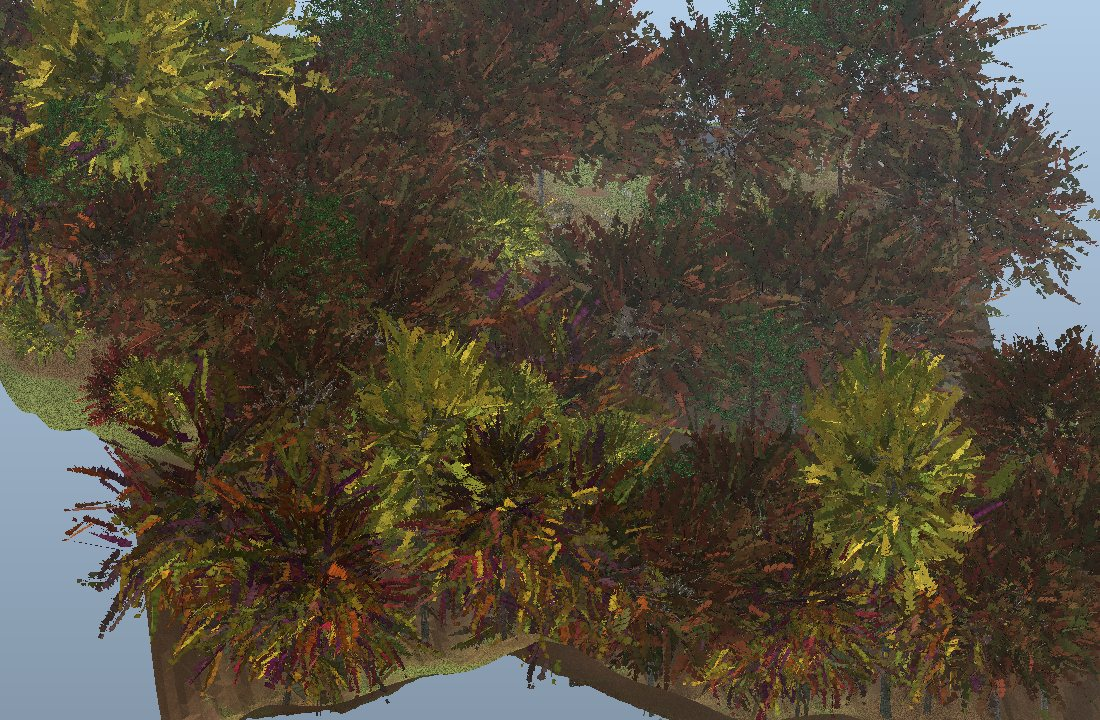
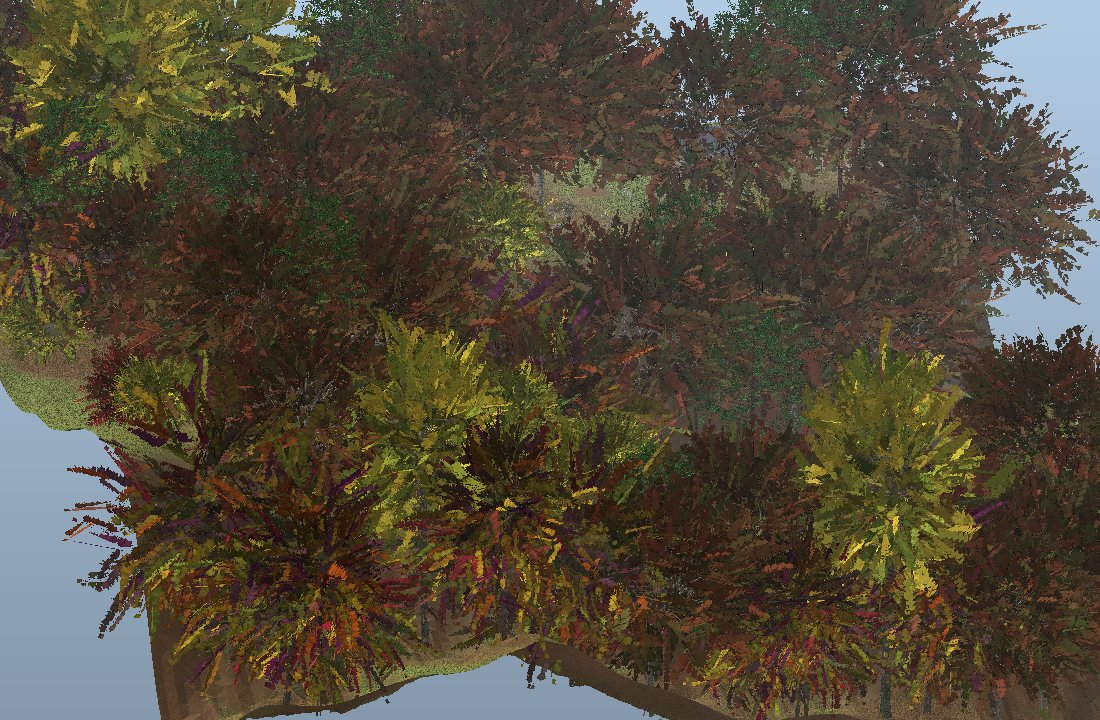
Curved, trampled grass blades
Technique: quadratic-bend blades with path trampling (docs/TECHNIQUES.md 17).
Each blade is 2 segments / 5 vertices / 3 triangles:
  c(t) = p0 + z h t (1 - b^2 t / 2) + d_psi h b t^2,  w(t) = w (1 - t),
  t in {0, 1/2, 1},  b ~ U(0.15, 0.6)
Trampled where g = clip(1.4 G) > 0.15, travel direction perpendicular to
grad(G * N_1):
  psi <- (1 - g) psi + g psi_travel,  h <- h (1 - 0.65 g),
  b <- b + (0.95 - b) g
Shade 0.7 at the base -> 1.08 at the tip. Three segments cost +2.7 MB per
scene for little visible gain at low, so two (+1.4 MB).
Scenes 9.7 / 11.1 / 11.4 MB; gallery regenerated. Test: blades curve,
trampled blades lie lower (31 tests).

Claude-Session: https://claude.ai/code/session_01W8T2zvuXVw2eBrrYHA5yqx

Changed region(s): [[0.4945, 0.6417, 0.5255, 0.6722], [0.0, 0.0917, 0.0309, 0.1222]]

diff --git a/plandscape/ground/surface.py b/plandscape/ground/surface.py
@@ -117,7 +117,7 @@ def ground_weights(hf, density, trail_G, canopy, litter=0.2, seed=0):
     return (a / a.sum(-1, keepdims=True)).reshape(-1, 4).astype(np.float32)
 
 
-def grass_mesh(hf, density, region, budget=40000, mix=None, seed=0, season="summer") -> Mesh:
+def grass_mesh(hf, density, region, budget=40000, mix=None, seed=0, season="summer", trail=None) -> Mesh:
     """Individual grass blades inside `region` (x0, y0, x1, y1), placed by density."""
     mix = mix or BIOME_GRASS["lawn"]
     r = make_rng("grass", seed, region)
@@ -149,14 +149,32 @@ def grass_mesh(hf, density, region, budget=40000, mix=None, seed=0, season="summ
     # at detail="cm" (budget in the millions) set widen=1.
     widen = float(np.clip(np.sqrt(4e5 / max(budget, 1)), 1.0, 5.0))
     ang = r.uniform(0, 2 * np.pi, n)
-    lean = r.uniform(0.1, 0.6, n) * h
+    bend = r.uniform(0.15, 0.6, n)  # tip displacement as a fraction of height
+    if trail is not None:  # trampled: shorter, bent over, lying along the direction of travel (⟂ ∇G)
+        g = np.clip(_sample(hf, trail, x, y) * 1.4, 0, 1)
+        gy_, gx_ = np.gradient(ndimage.gaussian_filter(trail, 1.0))
+        tx, ty = -_sample(hf, gy_, x, y), _sample(hf, gx_, x, y)
+        along = np.arctan2(ty, tx) + np.where(r.uniform(0, 1, n) < 0.5, 0, np.pi)
+        has = np.hypot(tx, ty) > 1e-4
+        ang = np.where(has & (g > 0.15), ang * (1 - g) + along * g, ang)
+        h = h * (1 - 0.65 * g)
+        bend = bend + (0.95 - bend) * g
+    # curved blade: 2 segments (5 vertices; 3 cost +2.7 MB per scene), quadratic bend p(t) = base + up·h·t·(1 − 0.5 b² t) + dir·h·b·t², width w(1 − t)
+    ts = np.array([0.0, 0.5, 1.0])
+    dirv = np.c_[np.cos(ang), np.sin(ang), np.zeros(n)]
     side = np.c_[np.cos(ang + np.pi / 2), np.sin(ang + np.pi / 2), np.zeros(n)] * (wdt * widen / 2)[:, None]
     base = np.c_[x, y, z - 0.01]
-    tip = base + np.c_[np.cos(ang) * lean, np.sin(ang) * lean, h]
-    P = np.stack([base - side, base + side, tip], 1).reshape(-1, 3)
-    C = np.stack([col * 0.55, col * 0.55, col * 1.1], 1).reshape(-1, 3)
-    return Mesh(P.astype(np.float32), np.clip(C, 0, 1).astype(np.float32),
-                np.arange(n * 3, dtype=np.uint32).reshape(-1, 3))
+    pts = []
+    for t in ts:
+        c = base + np.c_[np.zeros(n), np.zeros(n), h * t * (1 - 0.5 * bend ** 2 * t)] + dirv * (h * bend * t * t)[:, None]
+        wv = (1 - t) * side
+        pts += [c - wv, c + wv] if t < 1 else [c]
+    P = np.stack(pts, 1).reshape(-1, 3)  # 5 vertices per blade: 2 pairs + tip
+    shade = np.array([0.7, 0.7, 0.9, 0.9, 1.08])  # darker at the base, lit at the tip
+    C = (col[:, None, :] * shade[None, :, None]).reshape(-1, 3)
+    k = (np.arange(n) * 5)[:, None]
+    idx = np.concatenate([k + [0, 1, 3], k + [0, 3, 2], k + [2, 3, 4]])
+    return Mesh(P.astype(np.float32), np.clip(C, 0, 1).astype(np.float32), idx.astype(np.uint32))
 
 
 def _sample(hf, arr, x, y):

diff --git a/tests/test_textures_models.py b/tests/test_textures_models.py
@@ -247,6 +247,28 @@ class Fauna(unittest.TestCase):
         self.assertGreater(len(orders), 1)  # nobody always acts first
 
 
+class Grass(unittest.TestCase):
+    def test_blades_curve_and_trampled_ones_lie_down(self):
+        from plandscape.ground.surface import grass_mesh
+        from plandscape.terrain.heightfield import generate_tile
+        hf = generate_tile(32, 1.0, "piedmont", 2, creek=False)
+        dens = np.ones_like(hf.z)
+        G = np.zeros_like(hf.z)
+        G[:, 14:19] = 0.45  # a trail running north-south
+        m = grass_mesh(hf, dens, (2, 2, 30, 30), budget=3000, seed=1, trail=G)
+        P = m.positions.reshape(-1, 5, 3).astype(float)
+        base = (P[:, 0] + P[:, 1]) / 2
+        mid = (P[:, 2] + P[:, 3]) / 2
+        tip = P[:, 4]
+        # curved: the mid point is off the straight base->tip line
+        dev = np.linalg.norm(np.cross(tip - base, mid - base), axis=1) / np.maximum(np.linalg.norm(tip - base, axis=1), 1e-9)
+        self.assertGreater(np.median(dev), 1e-3)
+        height = tip[:, 2] - base[:, 2]
+        on = (base[:, 0] > 14.5) & (base[:, 0] < 18.5)
+        off = (base[:, 0] < 10) | (base[:, 0] > 23)
+        self.assertLess(np.median(height[on]), 0.7 * np.median(height[off]))  # trampled blades lie lower
+
+
 class Splat(Base):
     def test_weights_follow_layers(self):
         from plandscape.ground.surface import ground_weights

diff --git a/plandscape/scene/compose.py b/plandscape/scene/compose.py
@@ -285,7 +285,7 @@ def compose(plan: ScenePlan, out_dir: str, sim_seconds=180.0, log=print, store: 
     ter.splat = textures.splat_keys(plan.biome)
     c = S / 2
     focus = (c - 28, c - 28, c + 28, c + 28)
-    grass = grass_mesh(hf, dens, focus, GRASS_BUDGET[plan.detail], mix, plan.seed, plan.season)
+    grass = grass_mesh(hf, dens, focus, GRASS_BUDGET[plan.detail], mix, plan.seed, plan.season, trail=field.G)
 
     def _grid(A):
         return lambda x, y: float(A[min(max(int(round((y - hf.origin[1]) / hf.res)), 0), A.shape[0] - 1),

diff --git a/docs/TECHNIQUES.md b/docs/TECHNIQUES.md
@@ -242,3 +242,19 @@ $$w = \big(0.5 + 0.8\,\text{hunger},\ 0.25,\ 0.25 + 0.6\,\text{fatigue}\big)\ \t
 
 lasting $\mathcal U(6,25)$, $\mathcal U(3,10)$ and $\mathcal U(10,40)$ s. Audit over four seeds: freeze 28 % → under 1 %,
 canopy eating 24 %, rest 12 %.
+
+## 17. Curved, trampled grass blades
+`plandscape/ground/surface.py: grass_mesh`
+
+Each blade (height $h$, width $w$, heading $\psi$, bend $b \sim \mathcal U(0.15, 0.6)$) is two segments, five vertices,
+three triangles, along a quadratic curve with tapering width:
+
+$$\mathbf c(t) = \mathbf p_0 + \hat{\mathbf z}\,h\,t\,\big(1 - \tfrac12 b^2 t\big) + \hat{\mathbf d}_\psi\,h\,b\,t^2,\qquad w(t) = w\,(1 - t),\qquad t \in \{0, \tfrac12, 1\}$$
+
+**Trampling.** With trail strength $g = \text{clip}(1.4\,G)$ under the blade and the travel direction taken
+perpendicular to the smoothed trail gradient, $\hat{\mathbf d}_\text{travel} \perp \nabla(G * \mathcal N_1)$ (either sense):
+
+$$\psi \leftarrow (1-g)\,\psi + g\,\psi_\text{travel},\qquad h \leftarrow h\,(1 - 0.65\,g),\qquad b \leftarrow b + (0.95 - b)\,g$$
+
+so blades at path edges are shorter and lie over along the path. Vertex shade rises from 0.7 at the base to 1.08 at the
+tip. Three segments cost +2.7 MB per scene for little visible gain at `low`; two segments cost +1.4 MB.

diff --git a/HANDOFF.md b/HANDOFF.md
@@ -39,6 +39,7 @@ You are continuing **stick-town**, a Python package (`plandscape`) that turns a 
 **Known weaknesses** (look at them, then fix):
 - Bark limbs look faceted in the flat-shaded preview (smooth in the viewer). Rounded card normals and twig-attached leaf cards are still queued (`catalog/notes/ez-tree.md` #3).
 - Leaf sets are other species chosen by outline; no Southern-specific leaf scans yet (e.g. sweetgum stars are maple-like).
+- Grass blades are curved and trampled now (§17) but only in the central 56 m at ~6 per m² at `low`; a real lawn needs `detail="cm"` near the camera.
 - Stump scans are squat hardwood stumps; there's no tall pine stump or longleaf "lighter stump".
 - Desire paths are straight-ish and only in high-traffic corridors. The county road is real now (§15) but always crosses west→east; driveways and multiple roads are next.
 - Deer rest ~23 % of the time in fall daytime scenes; check activity curves against a source before tuning.

diff --git a/CHANGELOG.md b/CHANGELOG.md
@@ -2,6 +2,9 @@
 
 ## Unreleased
 
+**Added**
+- Curved grass blades (two segments, quadratic bend, tapering) that are shorter and bent along the path where trampled (TECHNIQUES §17). Scenes 9.7 / 11.1 / 11.4 MB.
+
 **Fixed**
 - Agent ids came from a process-wide counter, so a scene's animals (and their behaviour-clip keys and body looks) changed with how many agents earlier scenes in the same process had made — e.g. in `scripts/gallery.py`. Ids are now the index within the scene.
 - Squirrels froze on every routine climb (28 % of their time); they now feed, groom or rest in the canopy and freeze only when they bolted up (TECHNIQUES §16).
